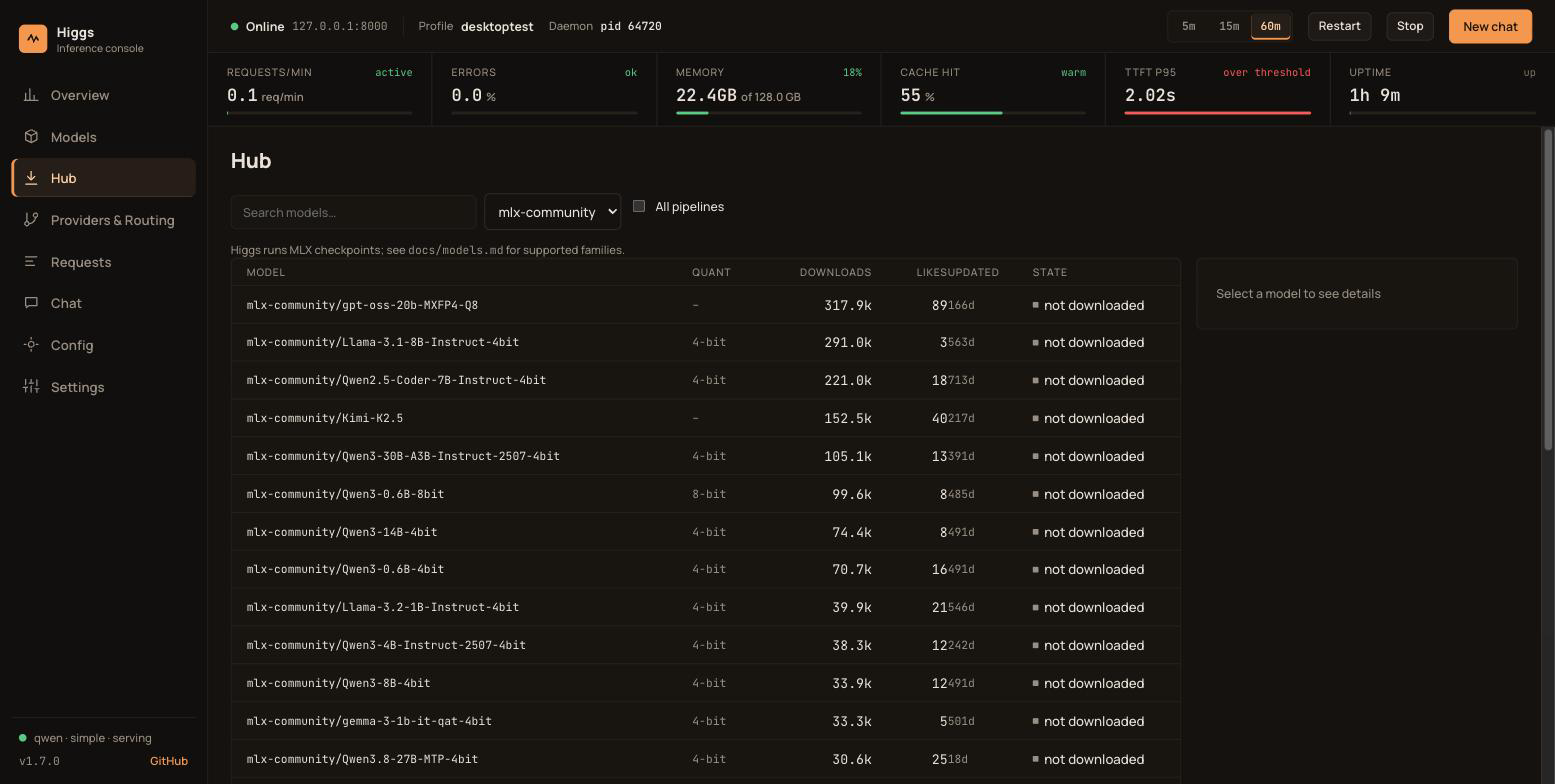
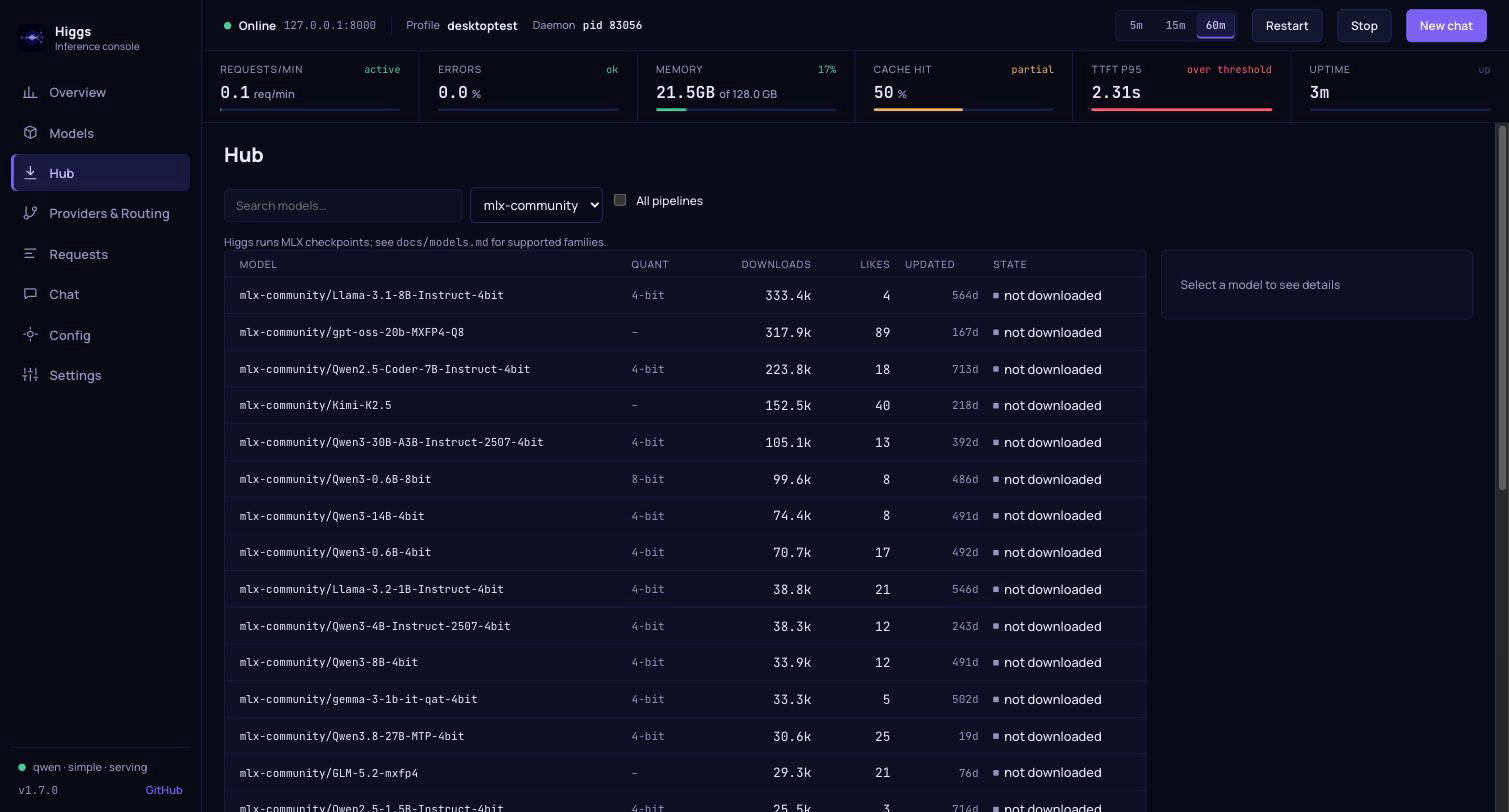
feat(desktop): navy and violet theme matching the brand artwork
Retheme the design tokens (surfaces, accent, semantic colors, charts) to the
palette of the app icon and README header, and refresh the README GIF and
docs screenshots in the new theme.

diff --git a/apps/desktop/src/styles.css b/apps/desktop/src/styles.css
@@ -8,36 +8,36 @@
 :root {
   color-scheme: dark;
 
-  --bg: #14110d;
-  --bg-rail: #110e0b;
-  --bg-panel: #1a1611;
-  --bg-raised: #211c16;
-  --bg-fresh: #2a2118;
-  --border: #2b251e;
-  --border-strong: #3a332b;
+  --bg: #06071a;
+  --bg-rail: #040514;
+  --bg-panel: #0c0e28;
+  --bg-raised: #131637;
+  --bg-fresh: #1b1d4a;
+  --border: #1d2050;
+  --border-strong: #2c3070;
 
-  --text: #ece6dc;
-  --text-muted: #a39a8c;
-  --text-accent: #ffd9a8;
+  --text: #eceeff;
+  --text-muted: #9d9fcb;
+  --text-accent: #d6c8ff;
 
-  --accent: #f0a44b;
-  --accent-hover: #ffc27a;
-  --accent-text: #1a1408;
+  --accent: #8b6cff;
+  --accent-hover: #a78bfa;
+  --accent-text: #ffffff;
 
-  --ok: #6fcf8b;
-  --warn: #e5b25a;
-  --bad: #ef6b5c;
-  --thinking: #b8a6ff;
-  --neutral: #8a7f70;
+  --ok: #5fd3a3;
+  --warn: #f0c060;
+  --bad: #ff6b7a;
+  --thinking: #5fc8f3;
+  --neutral: #5d6194;
 
-  --chart-1: #8a7f70;
-  --chart-1-strong: #f0a44b;
+  --chart-1: #5d6194;
+  --chart-1-strong: #a78bfa;
 
   /* Legacy aliases used throughout the other views. */
   --bg-elevated: var(--bg-panel);
   --bg-muted: var(--bg-raised);
   --bg-sidebar: var(--bg-rail);
-  --bg-user: #211c16;
+  --bg-user: #131637;
 
   --mono: "JetBrains Mono", "SF Mono", Menlo, Consolas, monospace;
   --sans: "Manrope", -apple-system, BlinkMacSystemFont, "Segoe UI", Roboto, Helvetica, Arial, sans-serif;
@@ -1323,7 +1323,7 @@ a:focus-visible {
 .btn.stop,
 .btn.danger {
   background: var(--bad);
-  color: #1a1408;
+  color: var(--accent-text);
   border-color: var(--bad);
 }
 
